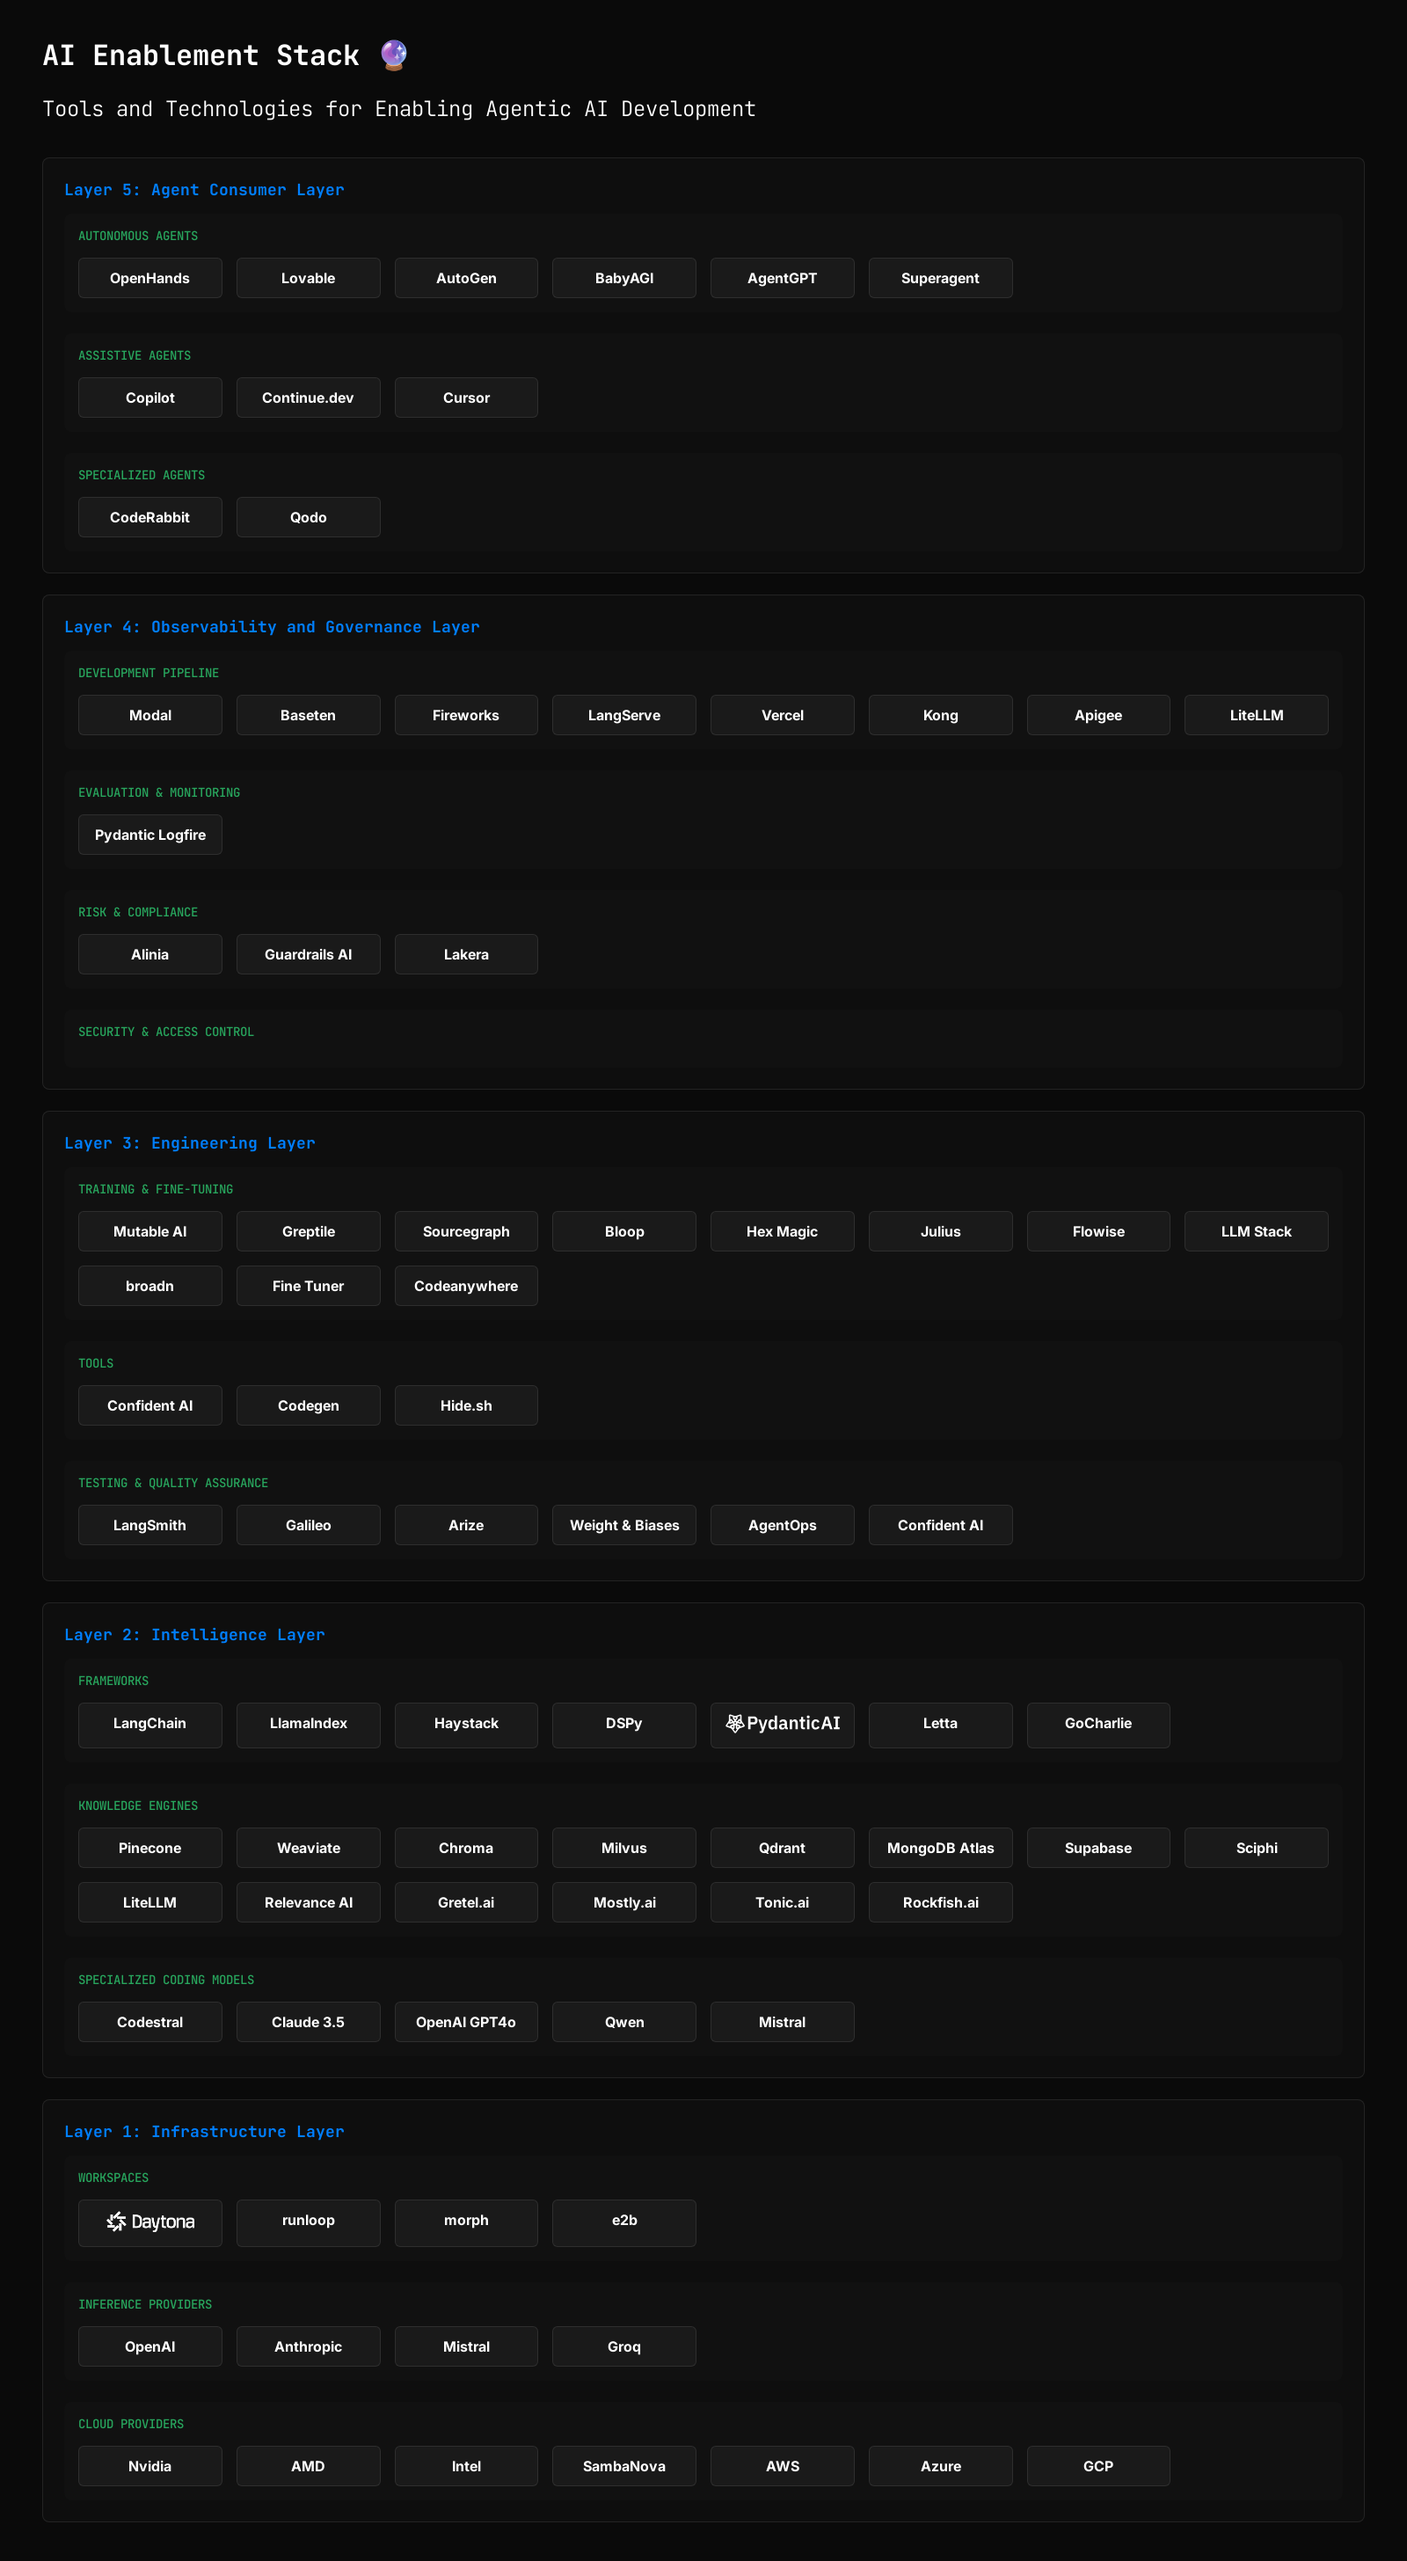
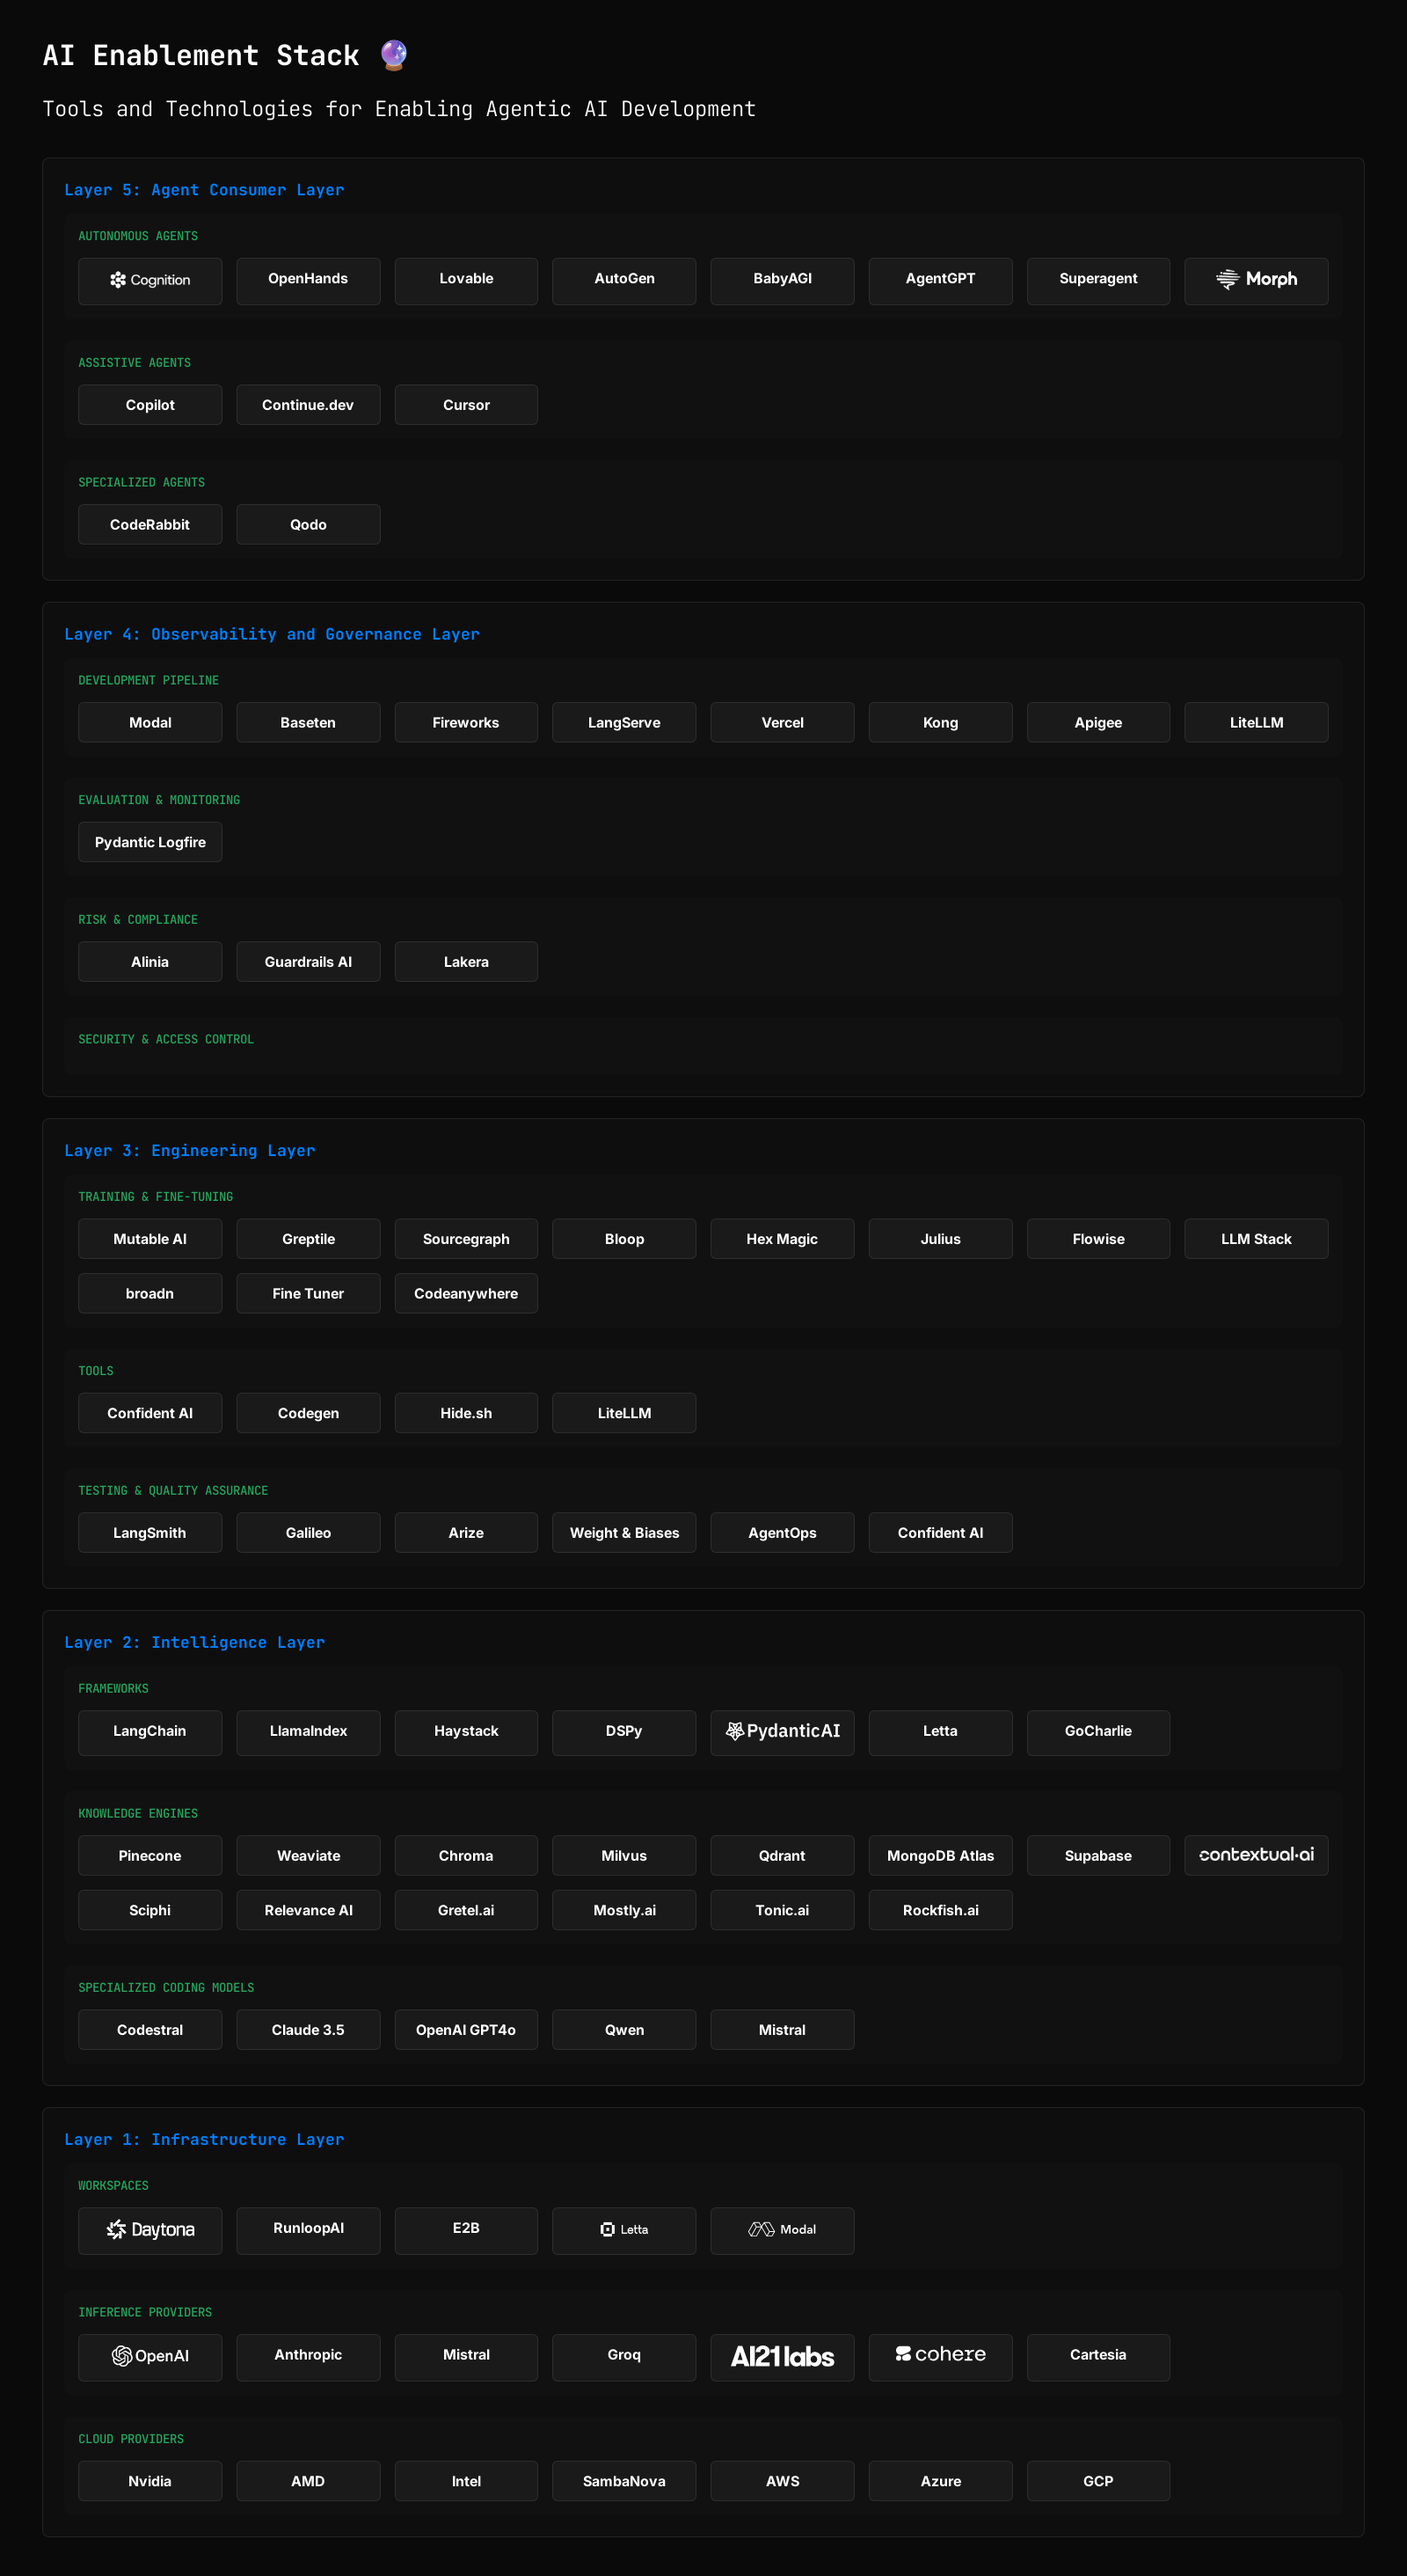
added some images to test

diff --git a/README.md b/README.md
@@ -43,6 +43,21 @@ To contribute to this list:
 
 ### AUTONOMOUS AGENTS
 
+#### [Devin](https://devin.ai/)
+<details>
+
+![Devin](./assets/cognition.png)
+
+##### Category
+Agent Consumer Layer - AUTONOMOUS AGENTS
+
+##### Description
+Cognition develops Devin, the world's first AI software engineer, designed to work as a collaborative teammate that helps engineering teams scale their capabilities through parallel task execution and comprehensive development support.
+
+##### Links
+- [https://devin.ai/](https://devin.ai/)
+</details>
+
 #### [OpenHands]()
 <details>
 
@@ -111,6 +126,20 @@ Agent Consumer Layer - AUTONOMOUS AGENTS
 
 ##### Description
 - No description available
+
+##### Links
+</details>
+
+#### [Morph]()
+<details>
+
+![Morph](./assets/morph.svg)
+
+##### Category
+Agent Consumer Layer - AUTONOMOUS AGENTS
+
+##### Description
+Morph AI delivers an enterprise-grade developer assistant that automates engineering tasks across multiple languages and frameworks, enabling developers to focus on high-impact work while ensuring code quality through automated testing and compliance.
 
 ##### Links
 </details>
@@ -507,6 +536,18 @@ Engineering Layer - TOOLS
 ##### Links
 </details>
 
+#### [LiteLLM]()
+<details>
+
+##### Category
+Engineering Layer - TOOLS
+
+##### Description
+- No description available
+
+##### Links
+</details>
+
 ### TESTING & QUALITY ASSURANCE
 
 #### [LangSmith]()
@@ -758,19 +799,22 @@ Intelligence Layer - KNOWLEDGE ENGINES
 ##### Links
 </details>
 
-#### [Sciphi]()
+#### [Contextual AI](https://contextual.ai/)
 <details>
+
+![Contextual AI](./assets/contextualai.webp)
 
 ##### Category
 Intelligence Layer - KNOWLEDGE ENGINES
 
 ##### Description
-- No description available
+Contextual AI provides enterprise-grade RAG (Retrieval-Augmented Generation) solutions that enable organizations in regulated industries to build and deploy production-ready AI applications for searching and analyzing large volumes of business-critical documents.
 
 ##### Links
+- [https://contextual.ai/](https://contextual.ai/)
 </details>
 
-#### [LiteLLM]()
+#### [Sciphi]()
 <details>
 
 ##### Category
@@ -923,54 +967,77 @@ Daytona.io is an open-source Development Environment Manager designed to simplif
 - [https://daytona.io/](https://daytona.io/)
 </details>
 
-#### [runloop]()
+#### [RunloopAI](https://www.runloop.ai/)
 <details>
 
 ##### Category
 Infrastructure Layer - WORKSPACES
 
 ##### Description
-- No description available
+Runloop provides a secure, high-performance infrastructure platform that enables developers to build, scale, and deploy AI-powered coding solutions with seamless integration and real-time monitoring capabilities.
 
 ##### Links
+- [https://www.runloop.ai/](https://www.runloop.ai/)
 </details>
 
-#### [morph]()
+#### [E2B](https://e2b.dev/)
 <details>
 
 ##### Category
 Infrastructure Layer - WORKSPACES
 
 ##### Description
-- No description available
+E2B provides an open-source runtime platform that enables developers to securely execute AI-generated code in cloud sandboxes, supporting multiple languages and frameworks for AI-powered development use cases.
 
 ##### Links
+- [https://e2b.dev/](https://e2b.dev/)
 </details>
 
-#### [e2b]()
+#### [Letta](https://www.letta.com/)
 <details>
+
+![Letta](./assets/letta.png)
 
 ##### Category
 Infrastructure Layer - WORKSPACES
 
 ##### Description
-- No description available
+Letta provides an agent development platform with advanced memory management capabilities for LLMs, enabling developers to build, deploy, and scale production-ready AI agents with transparent reasoning and model-agnostic flexibility.
 
 ##### Links
+- [https://www.letta.com/](https://www.letta.com/)
+</details>
+
+#### [Modal](https://modal.com/)
+<details>
+
+![Modal](./assets/modal.svg)
+
+##### Category
+Infrastructure Layer - WORKSPACES
+
+##### Description
+Modal offers a serverless cloud platform for AI and ML applications that enables developers to deploy and scale workloads instantly with simple Python code, featuring high-performance GPU infrastructure and pay-per-use pricing.
+
+##### Links
+- [https://modal.com/](https://modal.com/)
 </details>
 
 ### INFERENCE PROVIDERS
 
-#### [OpenAI]()
+#### [OpenAI](https://openai.com/)
 <details>
+
+![OpenAI](./assets/openai.png)
 
 ##### Category
 Infrastructure Layer - INFERENCE PROVIDERS
 
 ##### Description
-- No description available
+OpenAI develops advanced artificial intelligence systems like ChatGPT, GPT-4, and Sora, focusing on creating safe AGI that benefits humanity through products spanning language models, image generation, and video creation while maintaining leadership in AI research and safety.
 
 ##### Links
+- [https://openai.com/](https://openai.com/)
 </details>
 
 #### [Anthropic]()
@@ -1007,6 +1074,49 @@ Infrastructure Layer - INFERENCE PROVIDERS
 - No description available
 
 ##### Links
+</details>
+
+#### [AI21labs](https://www.ai21.com/)
+<details>
+
+![AI21labs](./assets/ai21labs.svg)
+
+##### Category
+Infrastructure Layer - INFERENCE PROVIDERS
+
+##### Description
+AI21 Labs delivers enterprise-grade generative AI solutions through its Jamba foundation model and RAG engine, enabling organizations to build secure, production-ready AI applications with flexible deployment options and dedicated integration support.
+
+##### Links
+- [https://www.ai21.com/](https://www.ai21.com/)
+</details>
+
+#### [Cohere](https://cohere.com/)
+<details>
+
+![Cohere](./assets/cohere.svg)
+
+##### Category
+Infrastructure Layer - INFERENCE PROVIDERS
+
+##### Description
+Cohere provides an enterprise AI platform featuring advanced language models, embedding, and retrieval capabilities that enables businesses to build production-ready AI applications with flexible deployment options across cloud or on-premises environments.
+
+##### Links
+- [https://cohere.com/](https://cohere.com/)
+</details>
+
+#### [Cartesia](https://www.cartesia.ai/)
+<details>
+
+##### Category
+Infrastructure Layer - INFERENCE PROVIDERS
+
+##### Description
+Cartesia AI delivers real-time multimodal intelligence through state space models that enable fast, private, and offline inference capabilities across devices, offering streaming-first solutions with constant memory usage and low latency.
+
+##### Links
+- [https://www.cartesia.ai/](https://www.cartesia.ai/)
 </details>
 
 ### CLOUD PROVIDERS
